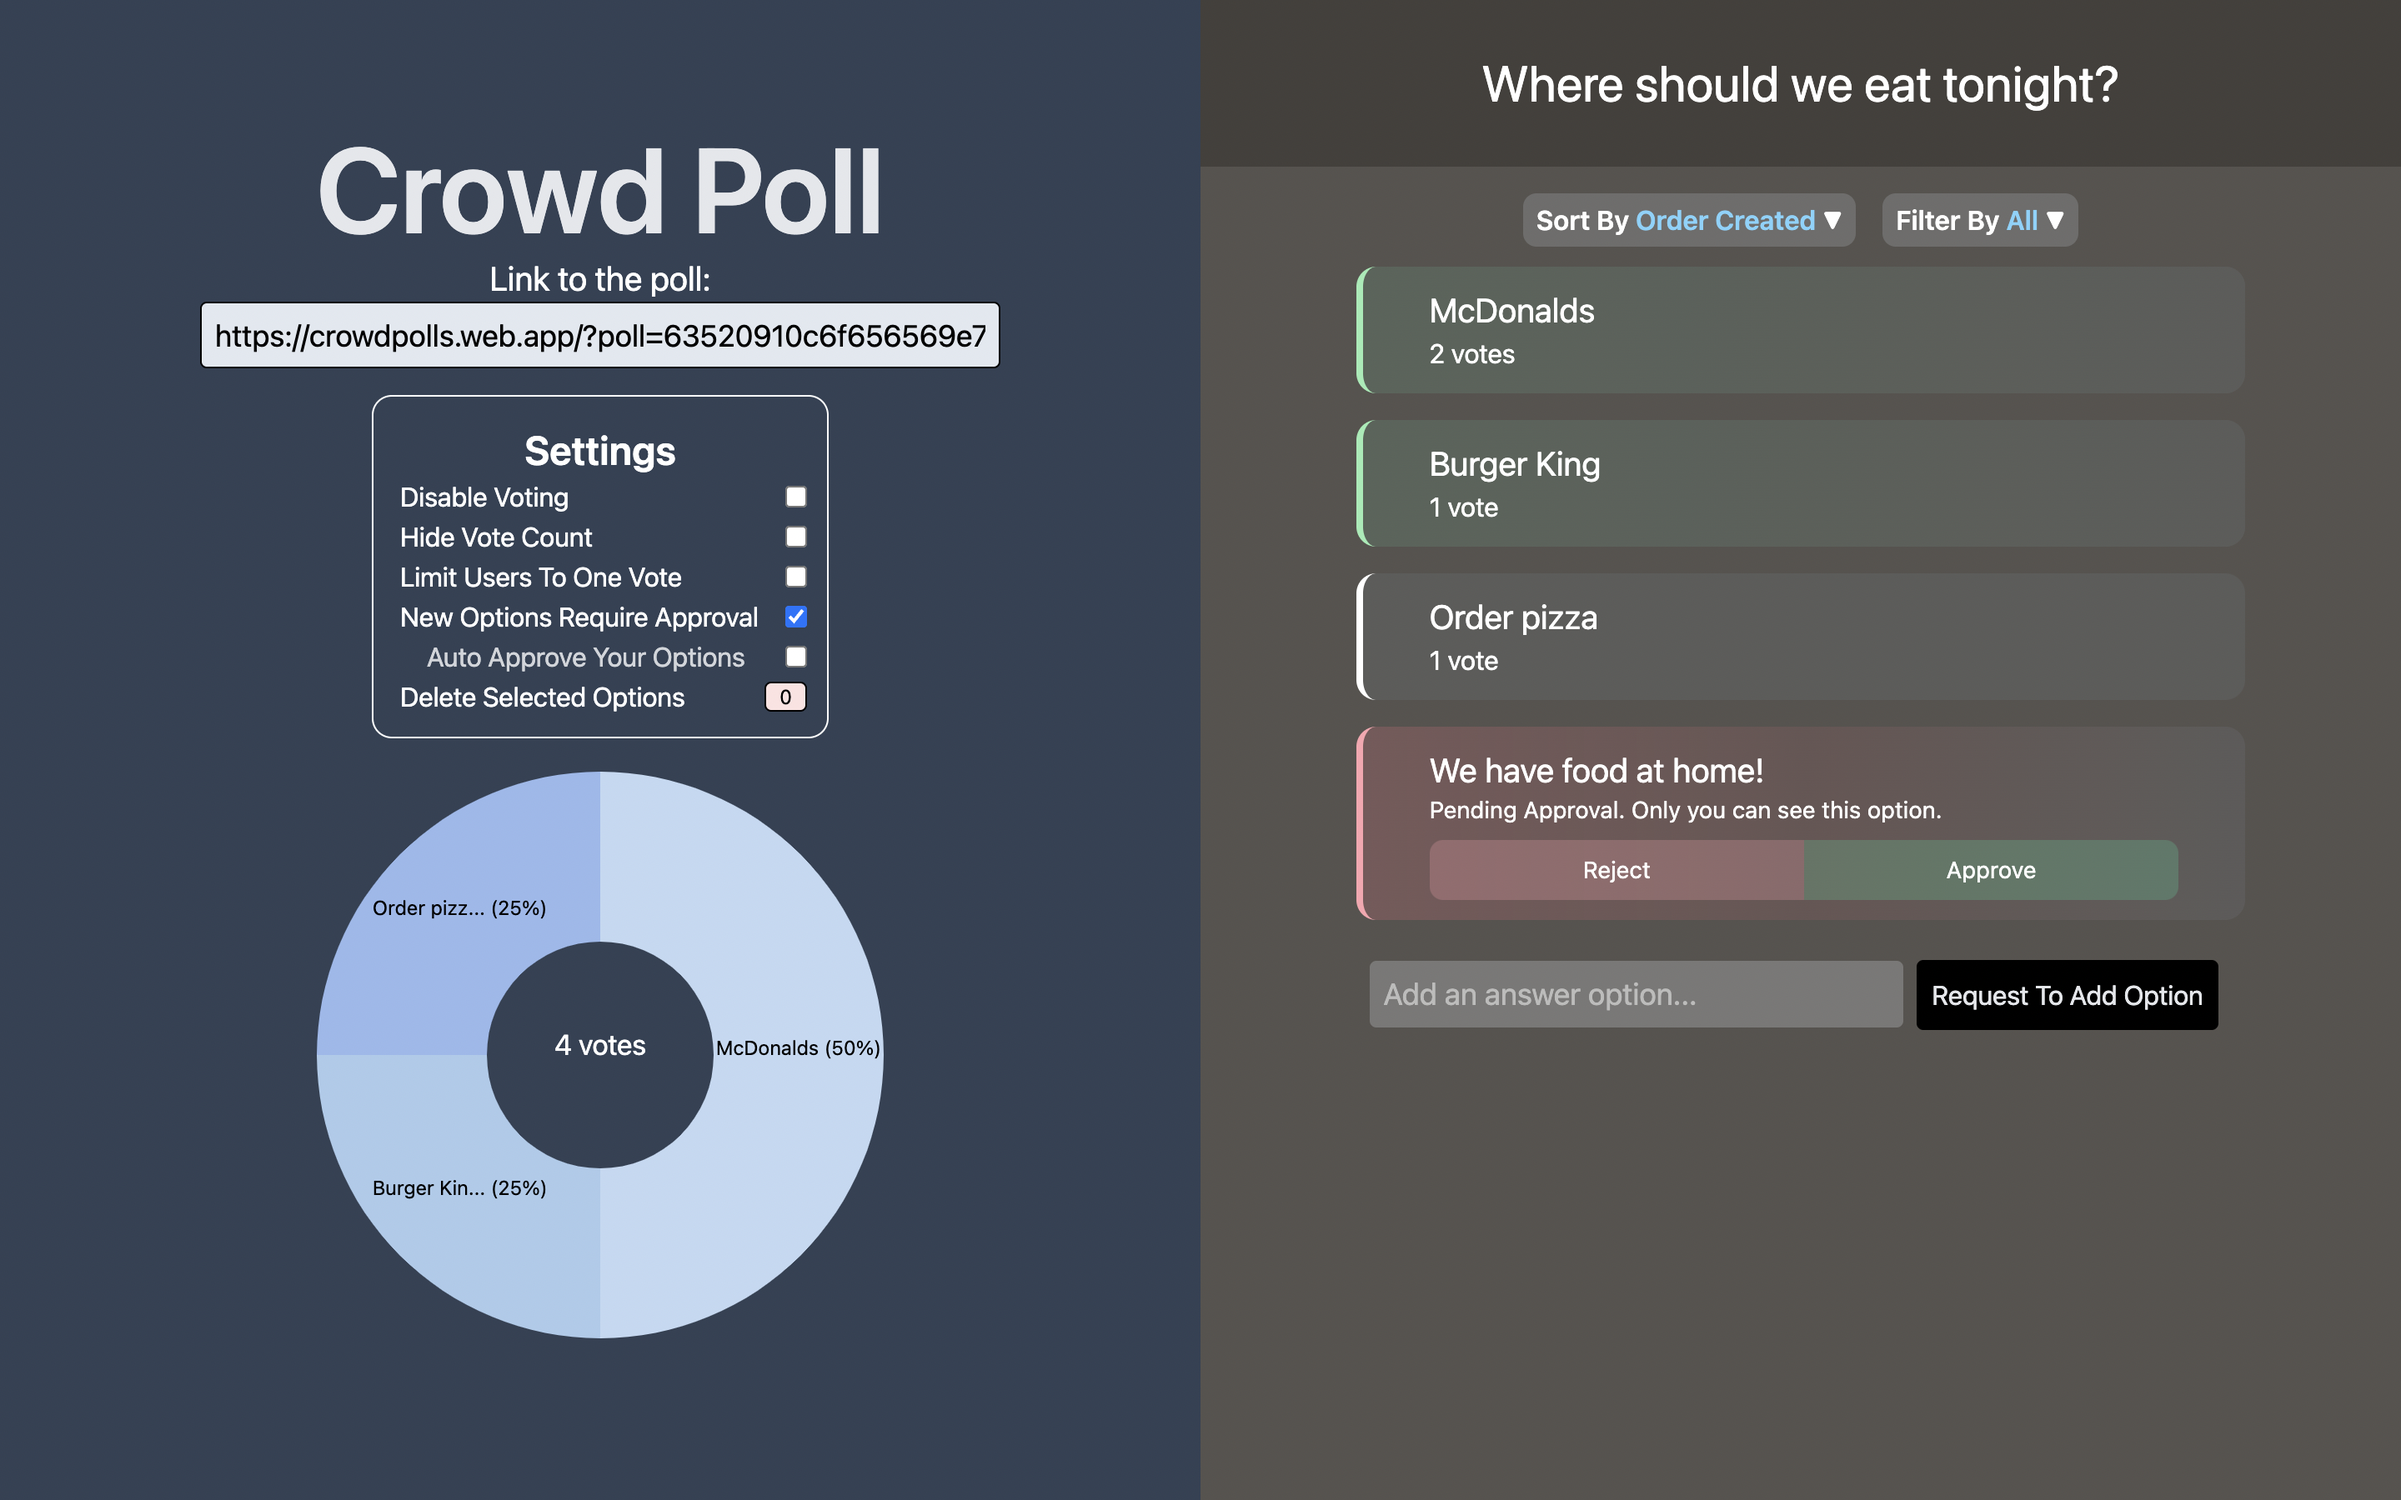
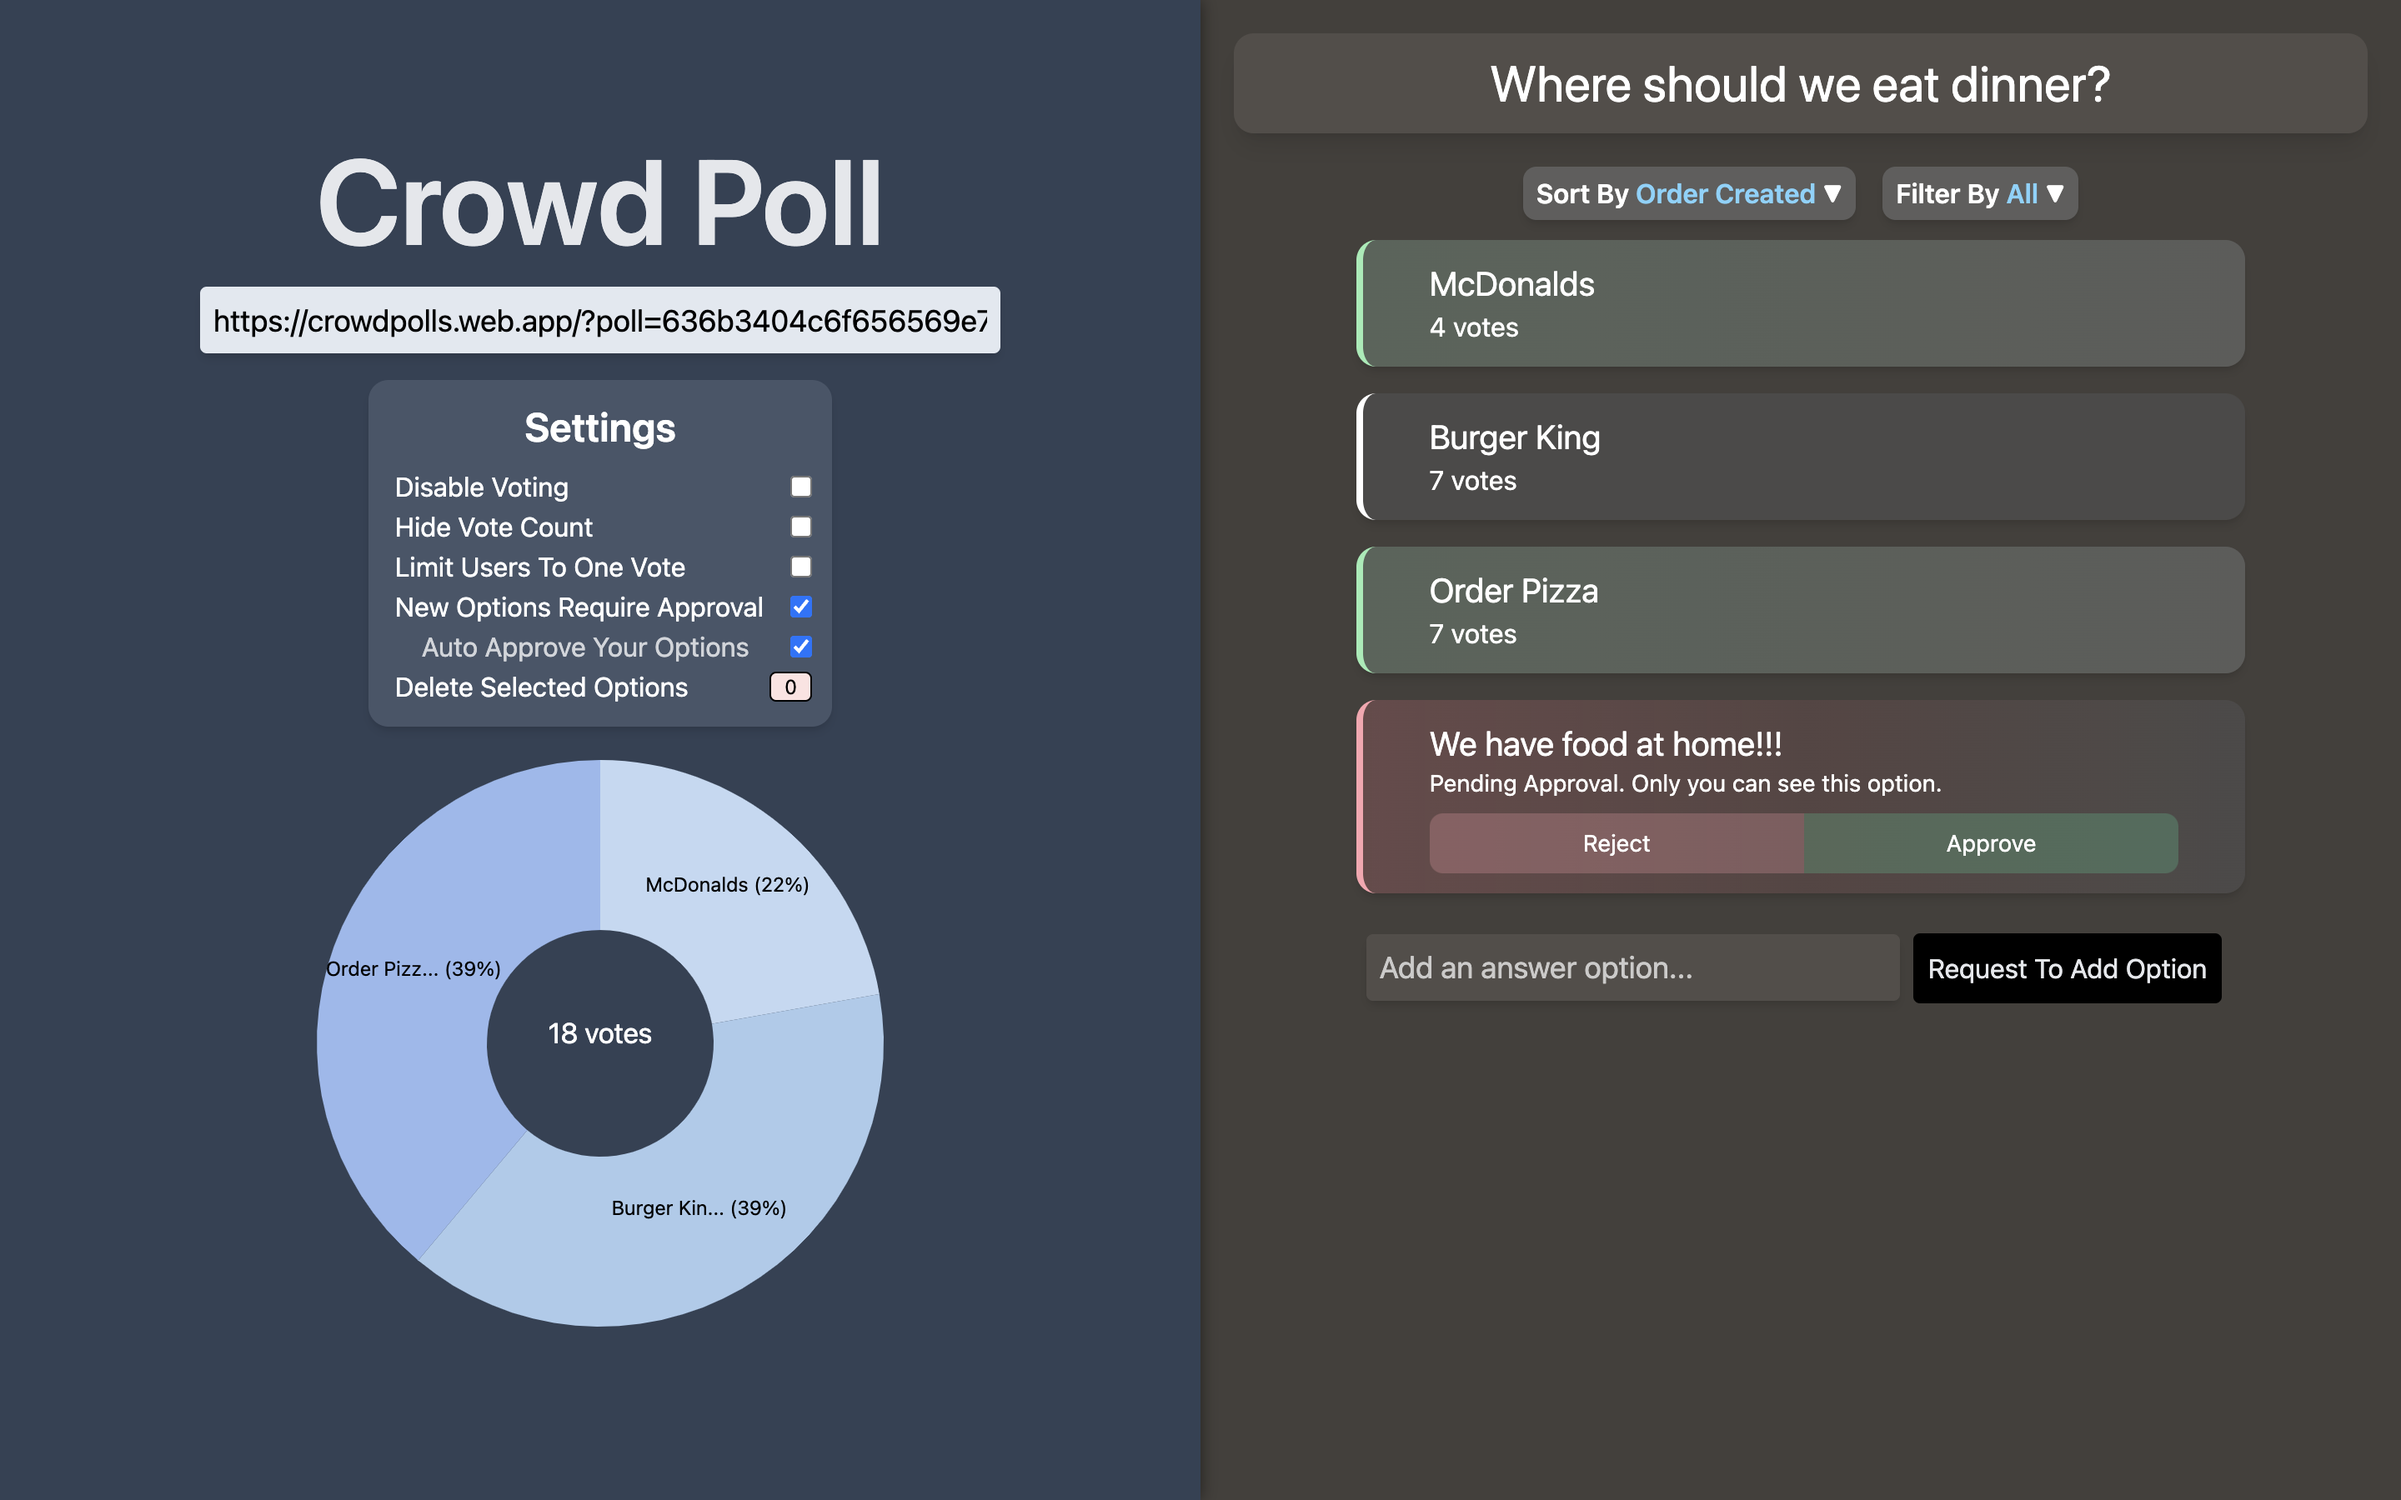
UI improvement

diff --git a/frontend/src/Poll.js b/frontend/src/Poll.js
@@ -154,8 +154,8 @@ function Poll(props) {
     //what to display for settings. Owner sees box to change settings. Other users see which settings, null if none, a box if at least 1 setting
     if (props.isOwner) {
         var settingsDisplay = (
-            <div className="border border-white mt-4 p-3 w-fit mx-auto rounded-xl">
-                <h1 className='text-white text-2xl mt-1 font-semibold'>Settings</h1>
+            <div className="bg-slate-600 mt-4 p-3 w-fit mx-auto rounded-xl shadow-md">
+                <h1 className='text-white text-2xl mb-2 font-semibold'>Settings</h1>
                 <SettingCheckBox ws={props.ws} text="Disable Voting" name="disableVoting" indent={false} pollId={props.pollId} userId={props.userId} active={props.settings["disableVoting"]} />
 
                 <SettingCheckBox ws={props.ws} text="Hide Vote Count" name="hideVotes" indent={false} pollId={props.pollId} userId={props.userId} active={props.settings["hideVotes"]} />
@@ -183,7 +183,7 @@ function Poll(props) {
             </div>)
     } else if (props.settings["disableVoting"] || props.settings["hideVotes"] || props.settings["limitOneVote"] || props.settings["approvalRequired"]) {
         settingsDisplay = (
-            <div className="border border-white p-4 rounded-xl mx-auto w-fit mt-4">
+            <div className="p-4 rounded-xl mx-auto w-fit mt-4 bg-slate-600 shadow-md">
                 <h1 className="text-center text-2xl font-semibold pt-1 text-white select-none mb-3">Settings</h1>
 
                 <ul className="text-left">
@@ -202,12 +202,14 @@ function Poll(props) {
         <>
         {alerts}
         <div className="grid grid-cols-1 lg:grid-cols-2 items-center justify-center text-center select-none">
-            <div className="lg:h-screen overflow-y-auto py-5 bg-slate-700 grid items-center">
+            <div className="lg:h-screen overflow-y-auto py-5 bg-slate-700 grid items-center" style = {{
+                "boxShadow": "0px 0px 10px 0px rgba(0,0,0,0.5)",
+                "zIndex": "1"
+            }}>
                 <div>
                     <a href="." className="mx-auto text-5xl lg:text-7xl font-semibold text-gray-200 select-none">Crowd Poll</a>
 
-                    <h1 className="lg:text-xl pt-1 text-white select-none">Link to the poll:</h1>
-                    <input readOnly={true} onClick={(e) => e.target.select()} className="h-10 w-2/3 rounded text-black lg:text-lg placeholder:text-black bg-slate-200 px-2 border border-black" value={window.location} />
+                    <input readOnly={true} onClick={(e) => e.target.select()} className="h-10 w-2/3 rounded mt-4 text-black lg:text-lg placeholder:text-black shadow-md bg-slate-200 px-2" value={window.location} />
 
                     {settingsDisplay}
 
@@ -220,8 +222,9 @@ function Poll(props) {
             </div>
 
 
-            <div className="bg-stone-600 lg:h-screen overflow-y-auto">
-                <div className="grid items-center bg-stone-700 py-8 text-3xl mb-4 bold text-white">
+            <div className="bg-stone-700 lg:h-screen overflow-y-auto">
+
+                <div className="grid items-center m-5 rounded-xl bg-stone-600/75 py-3 text-3xl bold text-white shadow-lg sticky top-5 z-10">
                     {props.title}
                 </div>
 
@@ -292,10 +295,10 @@ function Poll(props) {
                             alreadyVoted = {props.settings["limitOneVote"] && props.votedFor.length > 0}
                         />)
                     }
-                    <form onSubmit={addOption} className="w-full">
-                        <input ref={optionInput} className="h-10 w-3/4 lg:w-1/2 rounded text-white placeholder:text-white/50 lg:text-lg bg-slate-200/25 p-2 focus:outline-none" placeholder="Add an answer option..." />
-                        <button type="submit" className="bg-black text-gray-200 border border-black p-2 m-2 rounded" >{props.settings["approvalRequired"] ? "Request To Add Option" : "Add Option"}</button>
-                        {showError ? <p className="m-1 text-red-300">Option can not be blank. Please enter some text.</p> : null}
+                    <form onSubmit={addOption} className="w-full sticky bottom-2 z-10">
+                        <input ref={optionInput} className="h-10 w-3/4 lg:w-1/2 rounded text-white placeholder:text-white/70 lg:text-lg bg-stone-600/75 p-2 focus:outline-none shadow-md" placeholder="Add an answer option..." />
+                        <button type="submit" className="bg-black text-gray-200 border border-black p-2 m-2 rounded">{props.settings["approvalRequired"] ? "Request To Add Option" : "Add Option"}</button>
+                        {showError ? <p className="text-red-300">Option can not be blank. Please enter some text.</p> : null}
                     </form>
                 </div>
 

diff --git a/frontend/src/Welcome.js b/frontend/src/Welcome.js
@@ -124,6 +124,7 @@ function Welcome(props) {
                     key = {id}
                     title = {createdPolls[id]} 
                     toggleSelected = {toggleSelected} 
+                    selected = {selectedDelete.includes(id)}
                     checked = {selectedDelete.includes(id)}/>
         )
 
@@ -140,7 +141,10 @@ function Welcome(props) {
     return (
         <div className="grid grid-cols-1 lg:grid-cols-2 items-center text-center">
 
-            <div className="py-10 bg-slate-700 h-full grid items-center" >
+            <div className="py-10 bg-slate-700 h-full grid items-center" style = {{
+                "boxShadow": "0px 0px 10px 0px rgba(0,0,0,0.5)",
+                "zIndex": "1"
+            }}>
                 <div>
                     <a href="."><h1 className="mx-auto text-5xl lg:text-7xl font-semibold text-gray-200 select-none px-4">Crowd Poll</h1></a>
                     <p className="text-sm lg:text-xl pt-1 mt-2 text-gray-300 select-none">Share a poll with a title <br /> Crowd source answer options <br />Collectively vote on the best one</p>
@@ -150,24 +154,24 @@ function Welcome(props) {
 
 
             <div className="bg-stone-700 grid lg:h-screen items-center">
-                <form className="mx-2 py-10" onSubmit={createPoll}>
+                <form className="py-10 bg-stone-600 shadow-xl rounded-xl mx-10 mt-5" onSubmit={createPoll}>
                     <h1 className="mx-auto text-xl lg:text-2xl text-gray-200 select-none px-4 mb-2">Create New Poll</h1>
-                    <input ref={titleInput} className="h-10 mx-2 w-3/4 lg:w-1/2 rounded text-black text-lg placeholder:text-black bg-slate-200 px-2 border border-black" placeholder="Enter a title..." />
+                    <input ref={titleInput} className="h-10 mx-2 w-3/4 lg:w-1/2 rounded text-black text-lg placeholder:text-black bg-slate-200 px-2 shadow-md" placeholder="Enter a title..." />
                     <button type="submit" className="bg-black text-gray-200 border border-black p-2 m-2 rounded">Create Poll</button>
                     {showError ? <p className="m-1 text-red-200">Title can not be blank. Please enter a title.</p> : null}
                 </form>
 
 
                 {created ? 
-                <div className = "text-white w-full h-full bg-stone-600 grid items-center p-6">
-                    <div>
-                        <p className = "text-xl lg:text-2xl mb-1 select-none px-4">Your Created Polls</p>
-                        <ul className = "w-fit max-h-72 overflow-y-auto mx-auto border border-white rounded-lg p-3">
+                <div className = "text-white w-full h-full grid items-center p-6">
+                    <div className = "bg-stone-600 w-fit mx-auto p-5 rounded-xl shadow-xl">
+                        <p className = "text-xl lg:text-2xl mb-4 select-none px-4">Your Created Polls</p>
+                        <ul className = "w-fit max-h-72 overflow-y-auto mx-auto list-disc">
                             {created}
 
                             <div className = "mt-3 mb-1 w-full border-b border-b-white"></div>
                             <div className = "flex justify-between">
-                                <label className = "text-white" onClick = {deletePolls}>
+                                <label className = "text-white mr-16" onClick = {deletePolls}>
                                     {"Delete Selected Polls"}
                                 </label>
                                 

diff --git a/frontend/src/Option.js b/frontend/src/Option.js
@@ -86,11 +86,11 @@ function Option(props) {
             onClick={castVote}
             onMouseEnter={() => setShowBox(props.isOwner && true)}
             onMouseLeave={() => setShowBox(false)}
-            className={`w-5/6 mx-auto rounded-xl text-white border-l-4 mb-4 grid items-center bg-slate-400/10 py-3`}
+            className={`w-5/6 mx-auto rounded-xl text-white border-l-4 mb-4 grid items-center bg-slate-400/10 py-3 shadow-md`}
             style={style}
         >
 
-            <div className="text-xl px-10 relative text-left text-ellipsis overflow-hidden">
+            <div className="text-xl px-10 relative text-left text-ellipsis overflow-hidden ">
                 {props.optionTitle}
 
                 {showBox || selected || (props.isOwner && touchscreen) ?
@@ -113,7 +113,7 @@ function Option(props) {
     else
         return (
 
-            <div className={`w-5/6 mx-auto rounded-xl text-white border-l-4 border-rose-300 mb-4 py-3 grid items-center bg-gradient-to-r from-rose-400/20 via-rose-400/10 to-slate-400/10`}>
+            <div className={`w-5/6 mx-auto rounded-xl text-white border-l-4 border-rose-300 mb-4 py-3 grid items-center bg-gradient-to-r from-rose-400/20 via-rose-400/10 to-slate-400/10 shadow-md`}>
 
                 <div className="text-xl px-10 w-full relative text-left">
                     {props.optionTitle}

diff --git a/frontend/src/misc/Dropdown.js b/frontend/src/misc/Dropdown.js
@@ -23,14 +23,14 @@ const Dropdown = (props) => {
       
 
     return (
-        <div ref = {ref} onClick = {handleClick} className = "relative lg:inline-block w-fit rounded-lg bg-slate-300/20 px-2 py-1 mx-auto my-1 lg:my-0 lg:mx-2">
+        <div ref = {ref} onClick = {handleClick} className = "relative lg:inline-block w-fit rounded-lg bg-slate-300/20 px-2 py-1 mx-auto my-1 lg:my-0 lg:mx-2 shadow-md">
             <div className = "inline-block text-white font-semibold text-wrap-">{props.name} </div>
             <div className = "inline-block text-sky-300 mx-1 font-semibold text-wrap-">{props.selected} </div>
             <div className = "inline-block text-white text-wrap-">{props.show ? String.fromCharCode(9650) /*up arrow*/ : String.fromCharCode(9660) /*down arrow*/} </div>
             
              
             {props.show ? 
-            <div className = "absolute bg-stone-600 w-48 border border-stone-700 left-[-1px] rounded-tr-lg rounded-b-lg z-10 p-2">
+            <div className = "absolute bg-stone-600 w-48 border border-stone-700 left-[-1px] rounded-tr-lg rounded-b-lg z-10 p-2 shadow-md">
                 {props.children}
             </div> : null }
         </div>

diff --git a/frontend/src/misc/CreatedBox.js b/frontend/src/misc/CreatedBox.js
@@ -1,7 +1,7 @@
 
 const CreatedBox = (props) => {
-    return <li className = "h-fit flex justify-between">
-        <a className = "text-blue-200 truncate" href={`?poll=${props.id}`}>{props.title}</a>
+    return <li className = "h-fit flex justify-between list-disc">
+        <a className = {`${props.selected ? "text-red-200" : "text-blue-200"} truncate`} href={`?poll=${props.id}`}>{props.title}</a>
         <input id = {props.id} checked = {props.checked} onChange = {props.toggleSelected} className = "border border-black ml-2 self-center" type="checkbox"></input>
     </li>
 } 

diff --git a/frontend/src/useAlert.js b/frontend/src/useAlert.js
@@ -13,7 +13,7 @@ const useAlert = () => {
         const alert = (
             <div
                 key={`alert${count}`}
-                className={`rounded border border-black px-4 py-3 w-fit h-fit p-5 m-2 text-black z-20 ${type === "error" ? "bg-rose-300" : "bg-sky-200"}`}
+                className={`rounded px-4 py-3 w-fit h-fit p-5 m-2 text-black z-20 shadow-md ${type === "error" ? "bg-rose-300" : "bg-sky-200"}`}
                 onClick={() => {
                     dispatch({ type: "REMOVE_ALERT", payload: { "id": count } })
                 }}>
